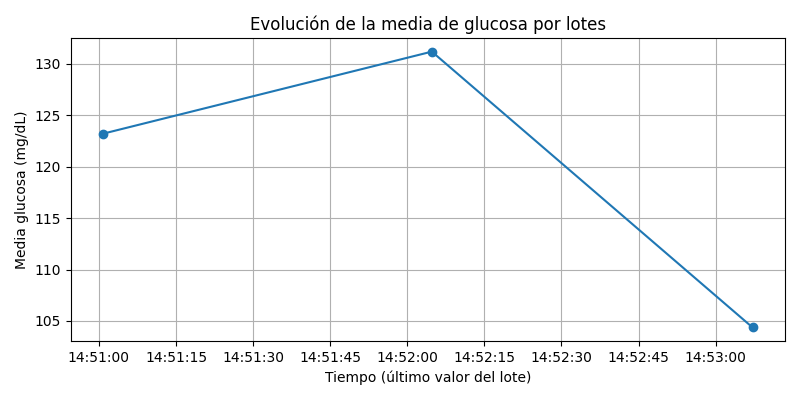
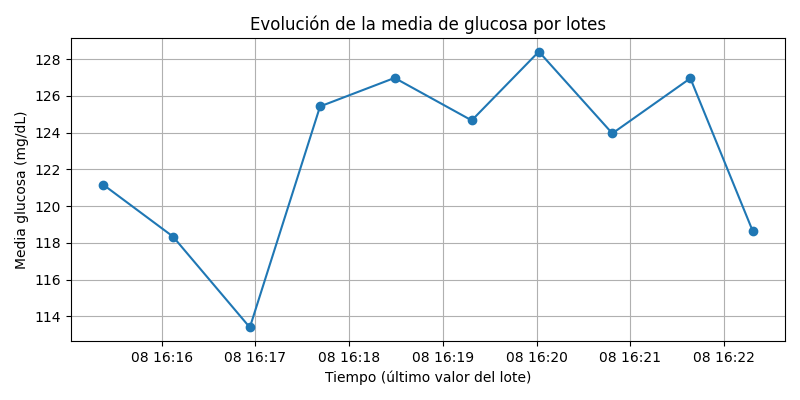
Versión final del código

diff --git a/iota_server.py b/iota_server.py
@@ -15,7 +15,7 @@ NODE_URL = "http://localhost:14265"
 TAG = "sensor.glucose"
 TAG_HEX = "0x" + TAG.encode("utf-8").hex()
 
-REPORT_INTERVAL = 60  # segundos entre generación de gráficas
+REPORT_INTERVAL = 45  # segundos entre generación de gráficas
 
 # Conjunto de IDs de bloque ya procesados para no repetir trabajo
 processed = set()
@@ -140,61 +140,6 @@ def process_block(block_json):
     except Exception as e:
         # Cualquier problema de decodificación/parsing se reporta por consola
         print(f"Error decodificando data: {e}")
-
-
-#def generate_plots():
-#    # Si aún no hay datos, no generamos nada
-#    if not records:
-#        print("No hay datos para generar gráficas todavía.")
-#        return
-#
-#    # Ordenar las lecturas por tiempo para que las series temporales tengan sentido
-#    ordered = sorted(records, key=lambda r: r["ts"])
-#    ts = [r["ts"] for r in ordered]
-#    noisy_vals = [r["noisy"] for r in ordered]
-#    est_vals = [r["est"] for r in ordered]
-#
-#    # --- Gráfica 1: tiempo vs glucosa (noisy vs estimado) ---
-#    plt.figure(figsize=(10, 5))
-#    # Serie temporal con los valores ruidosos
-#    plt.plot(ts, noisy_vals, label="Noisy", marker="o", linestyle="-", alpha=0.7)
-#    # Serie temporal con los valores estimados bayesianamente
-#    plt.plot(ts, est_vals, label="Est. Bayes", marker="x", linestyle="--", alpha=0.7)
-#
-#    plt.xlabel("Tiempo")
-#    plt.ylabel("Glucosa (mg/dL)")
-#    plt.title("Glucosa ruidosa vs estimada (LDP)")
-#    plt.legend()
-#    plt.grid(True)
-#    plt.tight_layout()
-#
-#    # Guardar la figura como PNG en la carpeta reports
-#    line_path = os.path.join(OUTPUT_DIR, "glucose_noisy_vs_estimated.png")
-#    plt.savefig(line_path)
-#    plt.close()
-#    print(f"Gráfica de líneas guardada en {line_path}")
-#
-#    # --- Gráfica 2: histogramas de noisy y est ---
-#    plt.figure(figsize=(8, 5))
-#    # Definimos bins en el rango fisiológico esperado
-#    bins = np.linspace(70, 180, 25)     # 70 es el mínimo, 180 es el máximo y creamos 25-1 intervalos del mismo tamaño en ese rango.
-#
-#    # Histograma de valores ruidosos
-#    plt.hist(noisy_vals, bins=bins, alpha=0.6, label="Noisy", edgecolor="black")
-#    # Histograma de valores estimados
-#    plt.hist(est_vals, bins=bins, alpha=0.6, label="Est. Bayes", edgecolor="black")
-#
-#    plt.xlabel("Glucosa (mg/dL)")
-#    plt.ylabel("Frecuencia")
-#    plt.title("Distribución de glucosa (noisy vs estimado)")
-#    plt.legend()
-#    plt.tight_layout()
-#
-#    # Guardar la figura como PNG
-#    hist_path = os.path.join(OUTPUT_DIR, "glucose_histogram.png")
-#    plt.savefig(hist_path)
-#    plt.close()
-#    print(f"Histograma guardado en {hist_path}")
 
 def generate_plots():
     global last_index_for_means, batch_means
